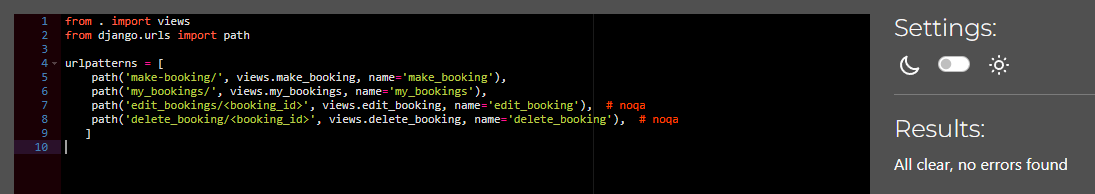
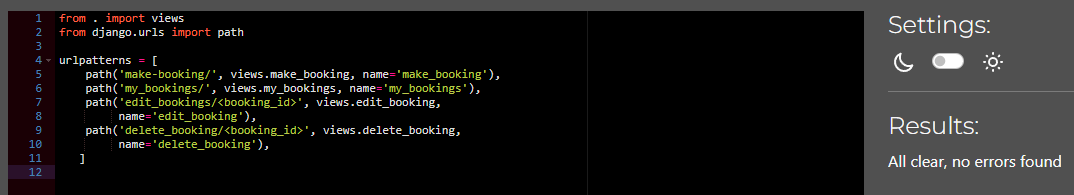
Modify overlong lines in 5 py files

Changed region(s): [[0.0, 0.0309, 1.0, 1.0]]

diff --git a/gallery/templates/gallery/my_pictures.html b/gallery/templates/gallery/my_pictures.html
@@ -63,7 +63,7 @@
       </div>
       {% empty %}
       <div class="col text-center mx-auto">
-        You have no pictures yet
+        <p>You have no pictures yet.</p>
       </div>
       {% endfor %}
     </div>

diff --git a/bookings/templates/bookings/my_bookings.html b/bookings/templates/bookings/my_bookings.html
@@ -65,7 +65,7 @@
       </div>
     </div>
     {% empty %}
-    <p>You have no bookings yet</p>
+    <p>You have no bookings yet.</p>
     {% endfor %}
   </section>
 

diff --git a/gallery/views.py b/gallery/views.py
@@ -39,7 +39,8 @@ def my_pictures(request):
     """
     Displays the current user's uploaded pictures.
     """
-    user_pictures = GalleryImage.objects.filter(username=request.user, approved=True)  # noqa
+    user_pictures = GalleryImage.objects.filter(username=request.user,
+                                                approved=True)
     if request.method == "POST":
         return redirect(reverse('my_pictures'))
 
@@ -57,7 +58,8 @@ def edit_caption(request, galleryimage_id):
     """
     To edit a picture caption for the current user.
     """
-    caption = get_object_or_404(GalleryImage, id=galleryimage_id, approved=True)  # noqa
+    caption = get_object_or_404(GalleryImage, id=galleryimage_id,
+                                approved=True)
     if not caption.username == request.user:
         messages.error(request, "Access denied - invalid credentials")
         return redirect('my_pictures')
@@ -86,7 +88,8 @@ def delete_picture(request, galleryimage_id):
     """
     To delete a picture and caption for the current user.
     """
-    picture = get_object_or_404(GalleryImage, id=galleryimage_id, approved=True)  # noqa
+    picture = get_object_or_404(GalleryImage, id=galleryimage_id,
+                                approved=True)
     if not picture.username == request.user:
         messages.error(request, "Access denied - invalid credentials")
         return redirect('my_pictures')

diff --git a/network/test_views.py b/network/test_views.py
@@ -29,7 +29,8 @@ class TestNetworkViews(TestCase):
     def test_render_network_page(self):
         response = self.client.get(reverse('network'))
         self.assertEqual(response.status_code, 200)
-        self.assertTemplateUsed(response, 'network/network_list.html', 'base.html')  # noqa
+        self.assertTemplateUsed(response, 'network/network_list.html',
+                                'base.html')
         self.assertIn(b"X Curling Club", response.content)
         self.assertIn(b"Anytown", response.content)
         self.assertIn(b"curling.website.com", response.content)

diff --git a/bookings/urls.py b/bookings/urls.py
@@ -4,6 +4,8 @@ from django.urls import path
 urlpatterns = [
     path('make-booking/', views.make_booking, name='make_booking'),
     path('my_bookings/', views.my_bookings, name='my_bookings'),
-    path('edit_bookings/<booking_id>', views.edit_booking, name='edit_booking'),  # noqa
-    path('delete_booking/<booking_id>', views.delete_booking, name='delete_booking'),  # noqa
+    path('edit_bookings/<booking_id>', views.edit_booking,
+         name='edit_booking'),
+    path('delete_booking/<booking_id>', views.delete_booking,
+         name='delete_booking'),
    ]

diff --git a/gallery/urls.py b/gallery/urls.py
@@ -4,6 +4,8 @@ from django.urls import path
 urlpatterns = [
     path('', views.gallery, name='gallery'),
     path('my_pictures/', views.my_pictures, name='my_pictures'),
-    path('edit_caption/<galleryimage_id>', views.edit_caption, name='edit_caption'),  # noqa
-    path('delete_picture/<galleryimage_id>', views.delete_picture, name='delete_picture'),  # noqa
+    path('edit_caption/<galleryimage_id>', views.edit_caption,
+         name='edit_caption'),
+    path('delete_picture/<galleryimage_id>', views.delete_picture,
+         name='delete_picture'),
 ]

diff --git a/network/models.py b/network/models.py
@@ -19,7 +19,8 @@ class Network(models.Model):
     location = models.CharField(max_length=200)
     website = models.CharField(max_length=200)
     email = models.EmailField(max_length=200)
-    wheelchair_access = models.CharField(choices=WHEELCHAIR_ACCESS, max_length=150)  # noqa
+    wheelchair_access = models.CharField(choices=WHEELCHAIR_ACCESS,
+                                         max_length=150)
 
     def __str__(self):
         return self.club_name
